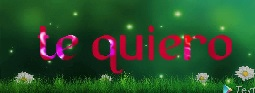
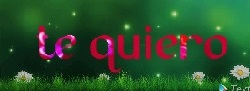
Listo

diff --git a/css/efectos.css b/css/efectos.css
@@ -15,7 +15,7 @@ h1 {
 
 .content {
 position: absolute;
-width: 1500px;
+width: 1350px;
 height: 90px;
 border: 1px solid;
 margin: 10px;
@@ -23,7 +23,7 @@ background:  url("../images/teq.jpg");
 /*background-image:  url(a.jpg);*/
 border-radius : 1%;
 animation : rotacion 10s infinite linear;
-box-shadow : 0px 5px 50px #888;
+box-shadow : 0px 1px 10px #888;
 }                                 
 
 .sombra3d{
@@ -34,6 +34,6 @@ box-shadow : 0px 5px 50px #888;
 }
 @keyframes rotacion {
 
-0%{ background-position: 10px 0px; }
+0%{ background-position: 0px 0px; }
 100%{ background-position: 360px 0px; }
 }
